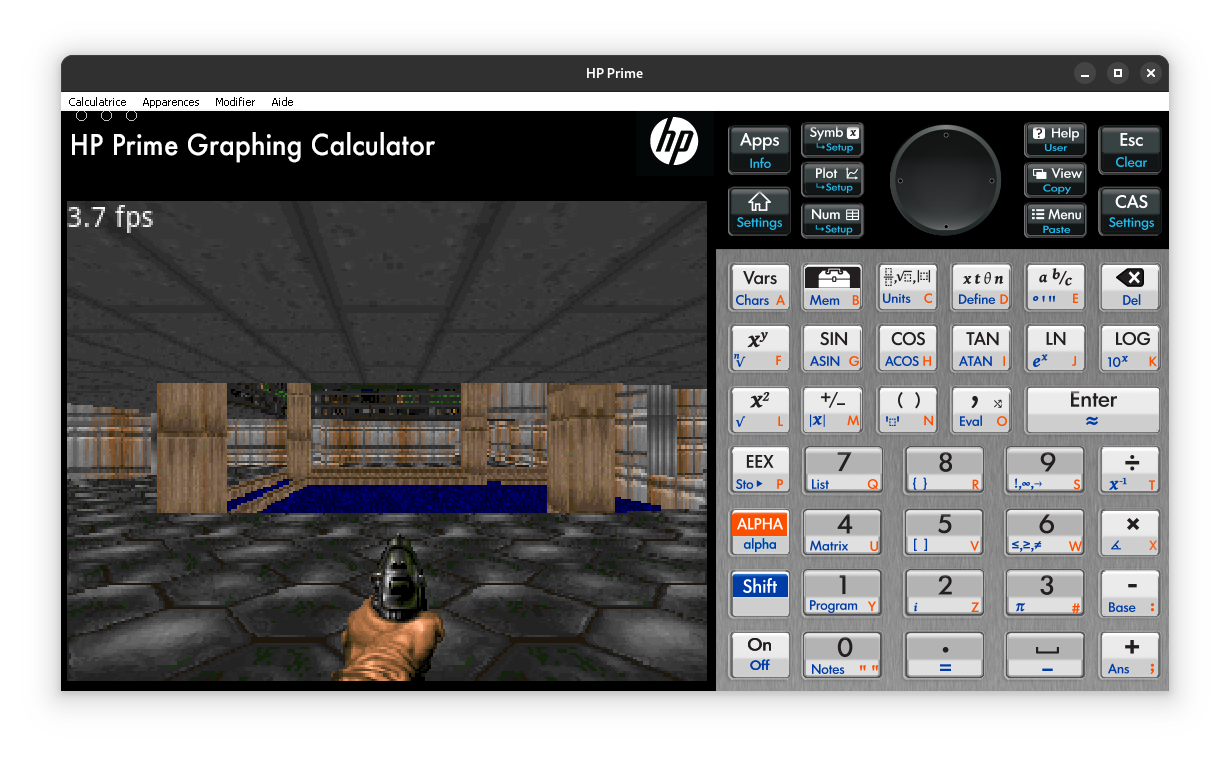
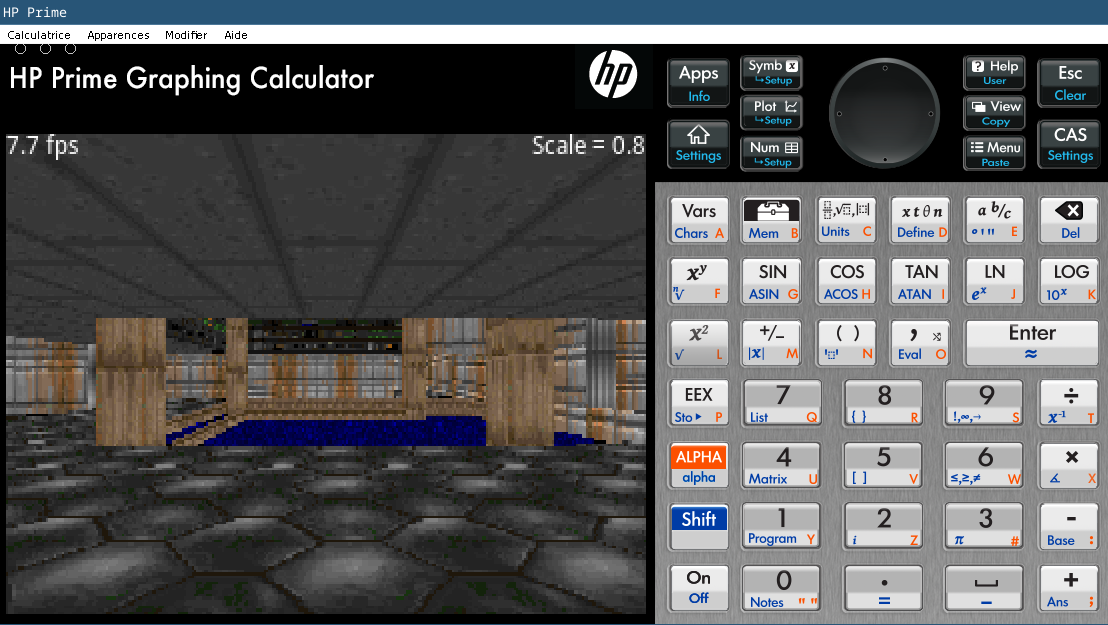
Fix comment and unit in show_mem. Add settings to change map in settings.py. Update screenshot

diff --git a/DOOM.hpappdir/main.py b/DOOM.hpappdir/main.py
@@ -24,7 +24,7 @@ class DoomEngine:
         self.framebuffer = self.graphics("framebuffer")
         self.framebuffer.init_graphic()
         self.keys = Keys()
-        self.wad_data = WADData(self, map_name='E1M1')
+        self.wad_data = WADData(self, MAP)
         #self.map_renderer = MapRenderer(self)
         self.player = Player(self)
         self.init_draws()
@@ -47,7 +47,7 @@ class DoomEngine:
         if s.STRETCH:
             self.screen.blit_stretch(self.framebuffer)
         else:
-            # For refresh the screen when not stretch
+            # For refresh the screen when not stretch, only for the fps, stretch display
             self.screen.blit_color((0,0), (319, 17))
             self.screen.blit_not_stretch(self.framebuffer, (s.ORIGIN_X_NOT_STRETCHED, s.ORIGIN_Y_NOT_STRETCHED), (s.WIDTH, s.HEIGHT_STRETCH))
         try:

diff --git a/DOOM.hpappdir/show_mem.py b/DOOM.hpappdir/show_mem.py
@@ -6,4 +6,4 @@ def show_mem(message=False):
     total = used + free
     if message:
         print(message)
-    print("Memory used :" + str(used) + " KB (" + str(total / used) + "%)\n")
+    print("Memory used :" + str(used) + " B (" + "{:.1f}%)\n".format(total / used))

diff --git a/DOOM.hpappdir/settings.py b/DOOM.hpappdir/settings.py
@@ -3,6 +3,9 @@ from vector2 import Vector2 as vec2
 
 ##########################################
 
+# The map to spawn in
+MAP = 'E1M1'
+
 # Render floor and ceiling?
 # Very bad performance compared to walls
 RENDER_FLATS = True
